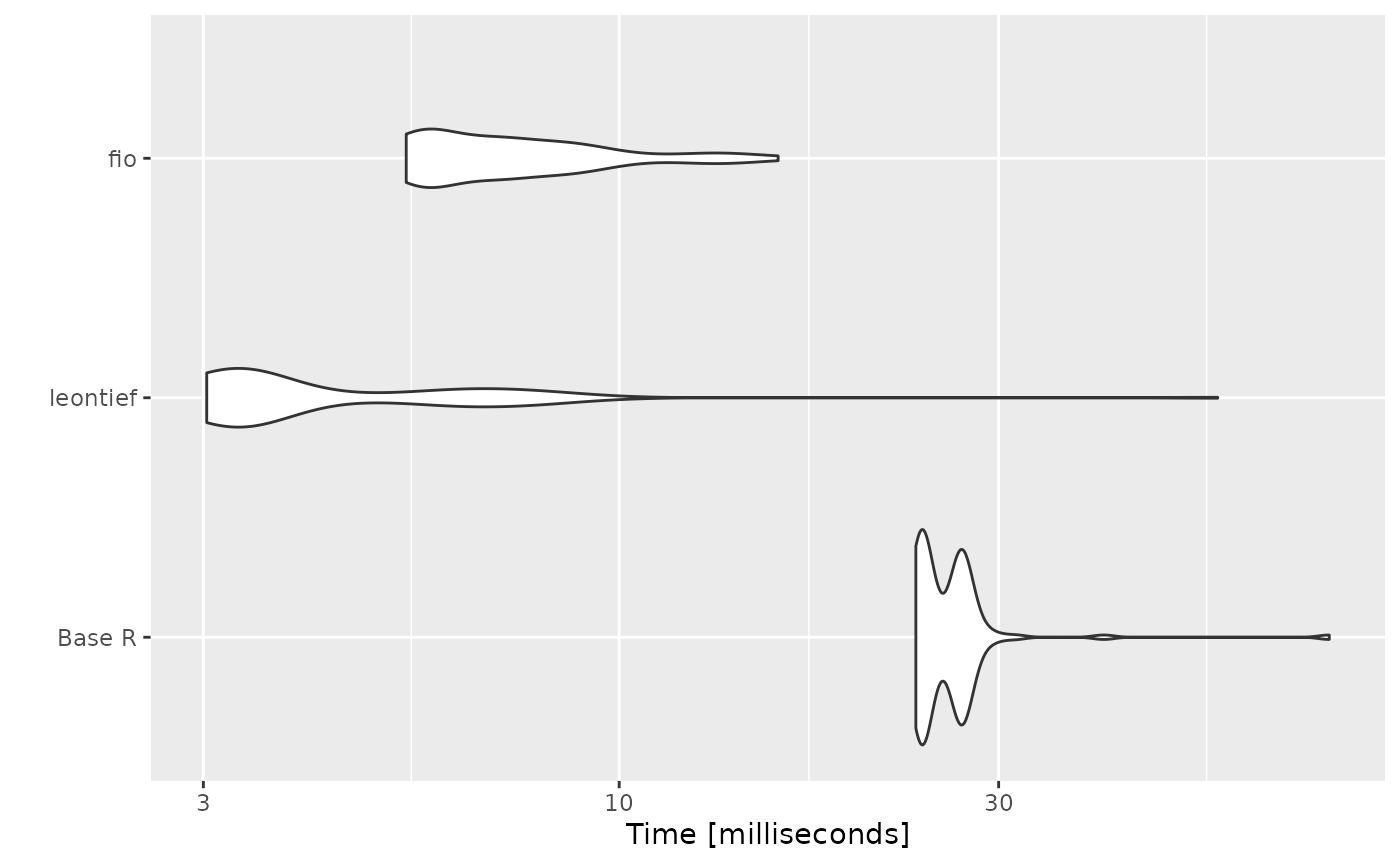
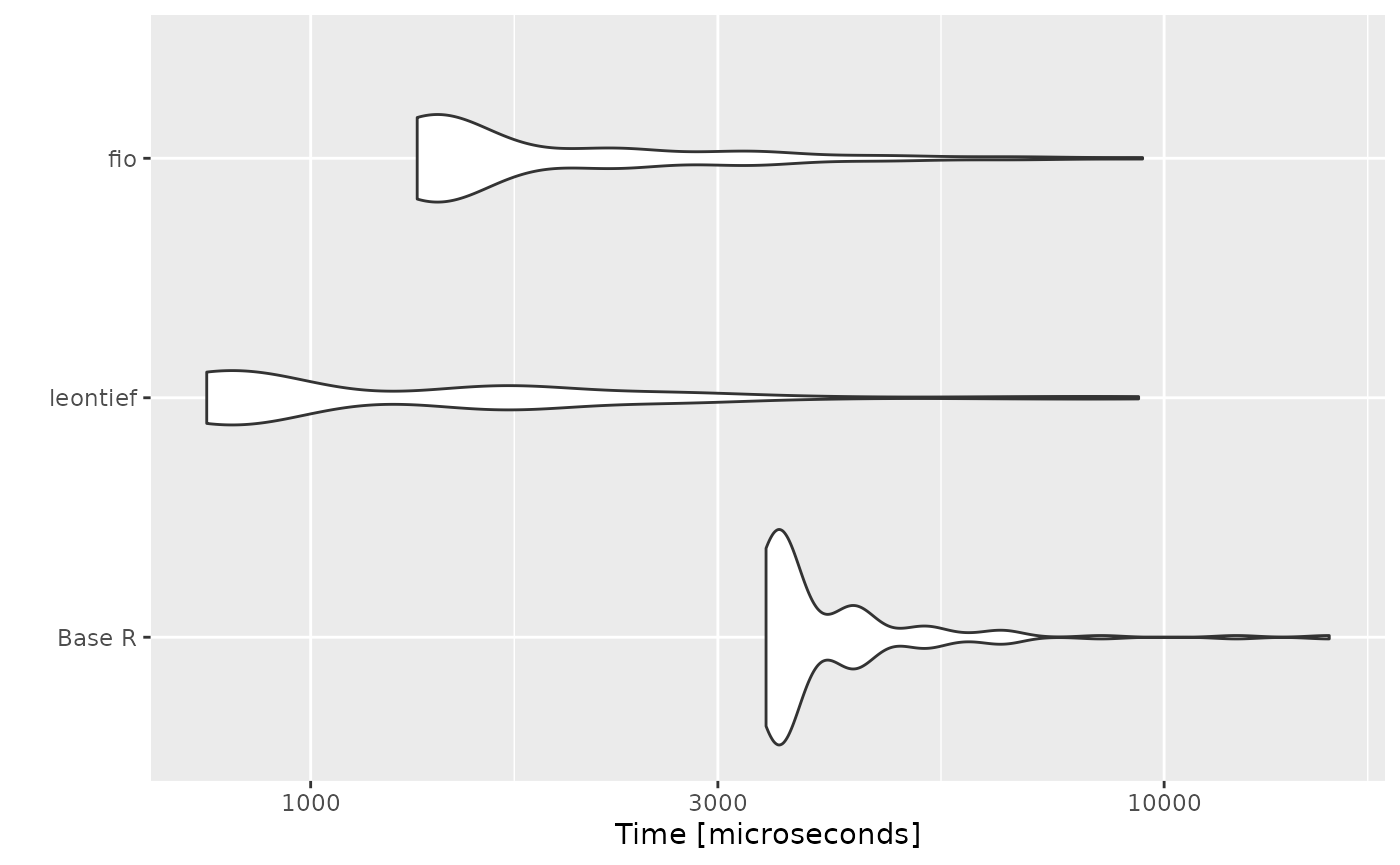
Deploying to gh-pages from @ albersonmiranda/fio@27773cdfe842d83d8bb0fabf953af0664a5c3444 🚀

diff --git a/articles/benchmark.html b/articles/benchmark.html
@@ -112,17 +112,17 @@ slightly faster. In contrast, the base R implementation is about 100
 times slower.</p>
 <div class="sourceCode" id="cb1"><pre class="downlit sourceCode r">
 <code class="sourceCode R"><span><span class="co"># set seed</span></span>
-<span><span class="fu"><a href="https://rdrr.io/r/base/Random.html" class="external-link">set.seed</a></span><span class="op">(</span><span class="fl">1</span><span class="op">)</span></span>
+<span><span class="fu"><a href="https://rdrr.io/r/base/Random.html" class="external-link">set.seed</a></span><span class="op">(</span><span class="fl">100</span><span class="op">)</span></span>
 <span></span>
 <span><span class="co"># data</span></span>
-<span><span class="va">matrix_dim</span> <span class="op">&lt;-</span> <span class="fl">1000</span></span>
+<span><span class="va">matrix_dim</span> <span class="op">&lt;-</span> <span class="fl">500</span></span>
 <span><span class="va">intermediate_transactions</span> <span class="op">&lt;-</span> <span class="fu"><a href="https://rdrr.io/r/base/matrix.html" class="external-link">matrix</a></span><span class="op">(</span></span>
 <span>  <span class="fu"><a href="https://rdrr.io/r/base/double.html" class="external-link">as.double</a></span><span class="op">(</span><span class="fu"><a href="https://rdrr.io/r/base/sample.html" class="external-link">sample</a></span><span class="op">(</span><span class="fl">1</span><span class="op">:</span><span class="fl">1000</span>, <span class="va">matrix_dim</span><span class="op">^</span><span class="fl">2</span>, replace <span class="op">=</span> <span class="cn">TRUE</span><span class="op">)</span><span class="op">)</span>,</span>
 <span>  nrow <span class="op">=</span> <span class="va">matrix_dim</span>,</span>
 <span>  ncol <span class="op">=</span> <span class="va">matrix_dim</span></span>
 <span><span class="op">)</span></span>
 <span><span class="va">total_production</span> <span class="op">&lt;-</span> <span class="fu"><a href="https://rdrr.io/r/base/matrix.html" class="external-link">matrix</a></span><span class="op">(</span></span>
-<span>  <span class="fu"><a href="https://rdrr.io/r/base/double.html" class="external-link">as.double</a></span><span class="op">(</span><span class="fu"><a href="https://rdrr.io/r/base/sample.html" class="external-link">sample</a></span><span class="op">(</span><span class="fl">10000</span><span class="op">:</span><span class="fl">20000</span>, <span class="va">matrix_dim</span>, replace <span class="op">=</span> <span class="cn">TRUE</span><span class="op">)</span><span class="op">)</span>,</span>
+<span>  <span class="fu"><a href="https://rdrr.io/r/base/double.html" class="external-link">as.double</a></span><span class="op">(</span><span class="fu"><a href="https://rdrr.io/r/base/sample.html" class="external-link">sample</a></span><span class="op">(</span><span class="fl">4000000</span><span class="op">:</span><span class="fl">6000000</span>, <span class="va">matrix_dim</span>, replace <span class="op">=</span> <span class="cn">TRUE</span><span class="op">)</span><span class="op">)</span>,</span>
 <span>  nrow <span class="op">=</span> <span class="fl">1</span>,</span>
 <span>  ncol <span class="op">=</span> <span class="va">matrix_dim</span></span>
 <span><span class="op">)</span></span>
@@ -145,11 +145,11 @@ times slower.</p>
 <span>  check <span class="op">=</span> <span class="st">"equivalent"</span></span>
 <span><span class="op">)</span></span>
 <span><span class="fu"><a href="https://rdrr.io/r/base/print.html" class="external-link">print</a></span><span class="op">(</span><span class="va">benchmark_a</span><span class="op">)</span></span>
-<span><span class="co">#&gt; Unit: milliseconds</span></span>
-<span><span class="co">#&gt;      expr       min        lq      mean    median        uq      max neval</span></span>
-<span><span class="co">#&gt;    Base R 23.607286 24.020536 26.228416 24.810237 26.940257 78.13220   100</span></span>
-<span><span class="co">#&gt;  leontief  3.029566  3.326630  4.914469  3.383346  6.077531 56.56972   100</span></span>
-<span><span class="co">#&gt;       fio  5.397659  5.718938  7.619067  6.967274  8.508031 15.84406   100</span></span></code></pre></div>
+<span><span class="co">#&gt; Unit: microseconds</span></span>
+<span><span class="co">#&gt;      expr      min        lq     mean    median       uq       max neval</span></span>
+<span><span class="co">#&gt;    Base R 3416.378 3523.6490 4202.348 3568.1220 4332.755 15612.679   100</span></span>
+<span><span class="co">#&gt;  leontief  755.480  802.4985 1556.852  840.6345 1694.284  9335.028   100</span></span>
+<span><span class="co">#&gt;       fio 1332.958 1372.6280 2042.262 1427.4200 2266.181  9435.576   100</span></span></code></pre></div>
 <div class="sourceCode" id="cb2"><pre class="downlit sourceCode r">
 <code class="sourceCode R"><span></span>
 <span><span class="co"># plot</span></span>
@@ -187,9 +187,9 @@ implementation.</p>
 <span><span class="fu"><a href="https://rdrr.io/r/base/print.html" class="external-link">print</a></span><span class="op">(</span><span class="va">benchmark_b</span><span class="op">)</span></span>
 <span><span class="co">#&gt; Unit: milliseconds</span></span>
 <span><span class="co">#&gt;      expr       min        lq      mean    median        uq      max neval</span></span>
-<span><span class="co">#&gt;    Base R  41.45114  44.19652  45.94423  45.23245  45.91992 121.5851   100</span></span>
-<span><span class="co">#&gt;  leontief  32.67364  33.15450  36.10588  33.53647  34.97881 114.3692   100</span></span>
-<span><span class="co">#&gt;       fio 362.91062 367.39203 390.63695 402.14694 403.88145 408.0281   100</span></span></code></pre></div>
+<span><span class="co">#&gt;    Base R  7.110205  7.343851  9.823111  7.596096 11.004941 88.19357   100</span></span>
+<span><span class="co">#&gt;  leontief  5.875810  6.065980  6.643875  6.157451  6.327949 12.54463   100</span></span>
+<span><span class="co">#&gt;       fio 52.726379 64.252499 70.485423 74.650171 75.048634 83.17785   100</span></span></code></pre></div>
 <div class="sourceCode" id="cb4"><pre class="downlit sourceCode r">
 <code class="sourceCode R"><span></span>
 <span><span class="co"># plot</span></span>
